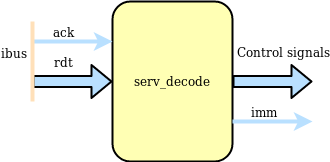
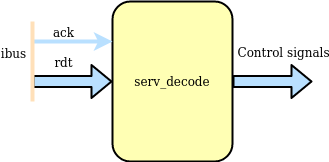
Add schematic for serv_decode

diff --git a/doc/index.rst b/doc/index.rst
@@ -91,7 +91,9 @@ serv_decode
 
 .. image:: serv_decode.png
 
-serv_decode is responsible for decoding the operation word coming from ibus into a set of control signals that are used internally in SERV. It also assembles the 32-bit immediate used by some instructions. During the life cycle of an operation all control signals (except one) are static and the immediate is streamed out during the first run stage
+serv_decode is responsible for decoding the operation word coming from ibus into a set of control signals that are used internally in SERV.
+
+.. image:: serv_decode_int.png
 
 serv_mem_if
 ^^^^^^^^^^^
